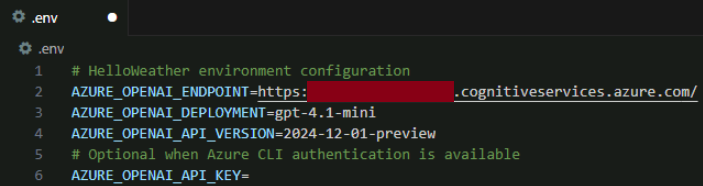
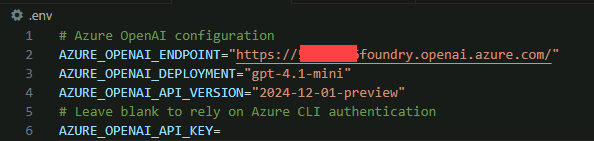
QA / CR fixes

diff --git a/lab/06-implementation/README.md b/lab/06-implementation/README.md
@@ -14,7 +14,7 @@ In GitHub Spec Kit, the implementation phase turns the plan and tasks into worki
 
 ## Step 1: Generate the Implementation with GitHub Copilot
 
-- [ ] In VS Code, goto the Copilot Chat panel. If not open, open it by clicking the sidebar icon or pressing Ctrl+Shift+I.
+- [ ] In VS Code, goto the Copilot Chat panel. If not open, open it by selecting the sidebar icon or pressing Ctrl+Shift+I.
 - [ ] Paste the prompt template below (it also includes **/speckit.implement**).
 - [ ] Hit **Enter** in Github Copilot to generate the actual code for the application.
 
@@ -37,14 +37,18 @@ In GitHub Spec Kit, the implementation phase turns the plan and tasks into worki
 - app.py — FastAPI routes, input validation, streaming response.
 - agents.py — Azure client init, agent definitions, ConcurrentBuilder orchestration, aggregator helpers.
 - index.html — simple form for user input plus streaming output area.
-- requirements.txt - All the required dependencies.
+- requirements.txt - All the required dependencies such as packages required.
 - README.md — Instructions to run the web app and QuickStart notes.
-- .env — Consists of Environment Variables required for runtime configuration.
+- .env — Consists of Environment Variables required for runtime configuration. 
  
 ## Dependencies & Auth
-- Packages: agent-framework --pre, fastapi, uvicorn, jinja2, python-dotenv. (all the packages should be documented in requirements.txt)
+- Packages: agent-framework --pre, fastapi, uvicorn, jinja2, python-dotenv. (All the packages should be documented in requirements.txt)
 - Default auth via AzureCliCredential with API key fallback.
-- Environment vars: AZURE_OPENAI_ENDPOINT, AZURE_OPENAI_DEPLOYMENT, AZURE_OPENAI_API_VERSION, optional AZURE_OPENAI_API_KEY.
+- Environment vars: 
+    AZURE_OPENAI_ENDPOINT (Endpoint url of the OpenAI service eg: https://xxxxxxxfoundry.openai.azure.com/), 
+    AZURE_OPENAI_DEPLOYMENT (Model deployment name for chat eg: gpt-4.1-mini),
+    AZURE_OPENAI_API_VERSION (Version of the deployed model eg: 2024-12-01-preview), 
+    AZURE_OPENAI_API_KEY (optional).
  
 ## Agent Instructions (System Prompts)
 - WeatherAgent: "Given a city name, return a 1-2 sentence approximate weather tip (likely conditions, comfort or packing guidance). Use only Azure OpenAI model knowledge. Do not use static data or external APIs. Friendly and concise."
@@ -67,7 +71,7 @@ In GitHub Spec Kit, the implementation phase turns the plan and tasks into worki
 - Implement all the requested user stories without fail including replacing the placeholder code blocks.
 - Include inline comments explaining client initialization, agent creation, concurrency wiring, streaming loop, and aggregation.
 - Provide steps to run locally: `uvicorn app:app --reload` and other important information required in the readme.md.
-- Implement unit tests to validate the User Input, client initialization, agent creation, concurrency wiring, streaming loop, and aggregation.
+- Implement and run unit tests to validate the User Input, client initialization, agent creation, concurrency wiring, streaming loop, and aggregation.
 - Mention any quick manual tests (valid intro + city, missing city, simulated agent failure).
  
 ## Style Notes
@@ -75,7 +79,7 @@ In GitHub Spec Kit, the implementation phase turns the plan and tasks into worki
 - Avoid unused abstractions or premature optimizations; focus on simpicity and clarity.
 ```
 
-You will need to click on "Keep," "Allow," or "Continue" in the chat window for copilot to work.
+You will need to select "Keep," "Allow," or "Continue" in the chat window for copilot to work.
 
 ## Step 2: After Generating the Implementation
 
@@ -99,27 +103,35 @@ You will need to click on "Keep," "Allow," or "Continue" in the chat window for 
 - [ ] (optional) Install dependencies: `pip install -r requirements.txt`.
 
 > [!CAUTION]
-> Please note that you may see occasionally compilation errors or execution errors as code is generated by AI. Read the [Guidance].(#human-in-the-loop-disclaimer).
+> Please note that you may see occasionally compilation errors or execution errors as code is generated by AI. Read the [Guidance](#human-in-the-loop-disclaimer).
 
-- [ ] Create or modify the .env file to update using your openai deployment details as needed.
-
-    ![SpecKit](./images/3.png)
-
-- [ ] For EntraID authentication, we need to grant the logged-in user the **Cognitive Services OpenAI User** permission. Use the Azure portal and assign the permissions as shown below.
+- [ ] Create or modify the .env file to update using your openai deployment details as needed. To update the **.env** file, follow the below instructions -
   - [ ] In the Azure portal, search for **Foundry**.
-  - [ ] Select **Foundry**, and navigate to specific resource.
-  - [ ] Select Access control (IAM) on the left pane.
-  - [ ] Select Add, then select Add role assignment.
-  - [ ] On the Role tab on the next screen, select **Cognitive Services OpenAI User** role.
-  - [ ] On the Members tab, select the logged in user.
-  - [ ] On the Review + assign tab, select Review + assign to assign the role.
+  - [ ] Select **Microsoft Foundry**, and navigate to specific resource under **Reources**. See the image below.
 
     ![SpecKit](./images/5.png)
+  
+  - [ ] Once the resource page opens - Select **Go to Foundry portal**
+  - [ ] In the Foundry portal, Go to **Overview -> Endpoints and Keys -> Libraries -> Azure OpenAI**.
+  - [ ] Copy the **Azure OpenAI endpoint** url as displayed below.
+
+    ![SpecKit](./images/6.png)
+
+  - [ ] Update the **.env** file with the endpoint url.
+  - [ ] Update the Model name and version with the following.
+    - [ ] AZURE_OPENAI_DEPLOYMENT: `gpt-4.1-mini`
+    - [ ] AZURE_OPENAI_API_VERSION: `2024-12-01-preview`
+  - You may verify these in the foundry portal in **Sidebar ->  My Assets -> Models + Endpoints** section.
+
+    ![SpecKit](./images/3.png)
 
 - [ ] Run the app: `.venv\Scripts\uvicorn app:app --log-level debug`.
 - [ ] Open <http://127.0.0.1:8000> in a browser, enter a friendly intro and a city, then submit; confirm streamed content appears and ends with the disclaimer. Example - *I am Dennis from Austin, Texas, USA.*
 
     ![SpecKit](./images/4.png)
+
+- [ ] The interface you see depends entirely on the choices your agent makes! — so if it looks different, this is expected - proceed forward.
+- [ ] You’re expected to encounter a few application errors along the way — just pass them to GitHub Copilot and let it fix them for you. Read the [Guidance](#human-in-the-loop-disclaimer).
 
 ### Step 2.3: Validations
 

diff --git a/lab/03-specification/README.md b/lab/03-specification/README.md
@@ -15,7 +15,7 @@ In GitHub Spec Kit, the specification captures the user journeys and functional 
 ## Step 1: Generate the Specification with GitHub Copilot
 
 - [ ] In the VS Code workspace you opened during the constitution phase, confirm GitHub Copilot and GitHub Copilot Chat remain enabled.
-- [ ] In VS Code, goto the Copilot Chat panel. If not open, open it by clicking the sidebar icon or pressing Ctrl+Shift+I.
+- [ ] In VS Code, goto the Copilot Chat panel. If not open, open it by selecting the sidebar icon or pressing Ctrl+Shift+I.
 - [ ] Paste the template prompt below (it includes **/speckit.specify**) and adapt the TODO placeholders to match your project.
 - [ ] Hit **Enter** in Github Copilot to draft **spec.md**.
 
@@ -61,7 +61,7 @@ We will be building a minimal web app using FastAPI, HTML Form and Microsoft Age
 - Able to demonstrate fan-out/fan-in orchestration and streaming without pre-seeded data.
 ```
 
-You will need to click on "Keep," "Allow," or "Continue" in the chat window for copilot to work.
+You will need to select "Keep," "Allow," or "Continue" in the chat window for copilot to work.
 
 ## Step 2: After Generating the Specification
 

diff --git a/lab/04-plan/README.md b/lab/04-plan/README.md
@@ -16,7 +16,7 @@ In GitHub Spec Kit, the plan turns the specification into a concrete roadmap. It
 ## Step 1: Generate the Plan with GitHub Copilot
 
 - [ ] In the VS Code workspace you opened during the constitution phase, confirm GitHub Copilot and GitHub Copilot Chat are still enabled and authenticated.
-- [ ] In VS Code, go to the Copilot Chat panel. If not open, open it by clicking the sidebar icon or pressing Ctrl+Shift+I.
+- [ ] In VS Code, go to the Copilot Chat panel. If not open, open it by selecting the sidebar icon or pressing Ctrl+Shift+I.
 - [ ] Paste the prompt template below (it includes **/speckit.plan**) and adapt the TODOs for your project.
 - [ ] Hit **Enter** in Github Copilot to draft **plan.md**.
 
@@ -71,7 +71,7 @@ In GitHub Spec Kit, the plan turns the specification into a concrete roadmap. It
 - Test known/unknown cities and invalid intros to confirm no static lookups.
 ```
 
-You will need to click on "Keep," "Allow," or "Continue" in the chat window for copilot to work.
+You will need to select "Keep," "Allow," or "Continue" in the chat window for copilot to work.
 
 ## Step 2: After Generating the Plan
 

diff --git a/lab/05-tasks/README.md b/lab/05-tasks/README.md
@@ -13,7 +13,7 @@ In GitHub Spec Kit, the `/speckit.tasks` phase turns the plan into ordered, test
 
 ## Step 1: Generate Tasks with GitHub Copilot
 
-- [ ] In VS Code, goto the Copilot Chat panel. If not open, open it by clicking the sidebar icon or pressing Ctrl+Shift+I.
+- [ ] In VS Code, goto the Copilot Chat panel. If not open, open it by selecting the sidebar icon or pressing Ctrl+Shift+I.
 - [ ] Paste the prompt template below (it also includes **/speckit.tasks**).
 - [ ] Hit **Enter** in Github Copilot to draft **tasks.md**.
 
@@ -60,7 +60,7 @@ In GitHub Spec Kit, the `/speckit.tasks` phase turns the plan into ordered, test
 - Keep the technical stack around Microsoft Agent Framework, fastapi, uvicorn, python.
 ```
 
-You will need to click on "Keep," "Allow," or "Continue" in the chat window for copilot to work.
+You will need to select "Keep," "Allow," or "Continue" in the chat window for copilot to work.
 
 ## Step 2: After Generating Tasks
 

diff --git a/lab/02-constitution/README.md b/lab/02-constitution/README.md
@@ -18,7 +18,7 @@ In GitHub Spec Kit, the constitution defines the guardrails that every agent mus
 
     ![Speckit](./images/1.png)
 
-- [ ] If the Copilot Chat panel isn't already open, please open it by clicking the sidebar icon or using the shortcut `Ctrl+Shift+I`.
+- [ ] If the Copilot Chat panel isn't already open, please open it by selecting the sidebar icon or using the shortcut `Ctrl+Shift+I`.
 
 - [ ] In the chat input, paste the placeholder prompt below (it includes the **/speckit.constitution** command) and edit it with project specifics.
 
@@ -59,7 +59,7 @@ In GitHub Spec Kit, the constitution defines the guardrails that every agent mus
 - Complex code constructs.
 ```
 
-You will need to click on "Keep," "Allow," or "Continue" in the chat window for copilot to work.
+You will need to select "Keep," "Allow," or "Continue" in the chat window for copilot to work.
 
 ## Step 2: After Generating the Constitution
 

diff --git a/lab/01-prerequisites/README.md b/lab/01-prerequisites/README.md
@@ -93,7 +93,7 @@ Establish the tools and workspace needed for the Hello Weather lab before drafti
   cd hello-weather-agent
   ```
 
-- [ ] Launch **Visual Studio Code** from this folder using the below command and click the checkbox and "Yes, I trust the authors"
+- [ ] Launch **Visual Studio Code** from this folder using the below command and select the checkbox and "Yes, I trust the authors"
 
   ```bash
   code . --reuse-window
